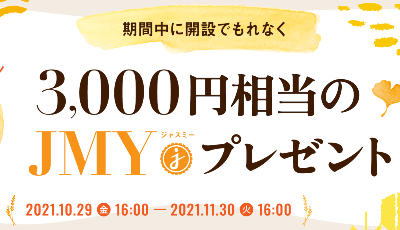
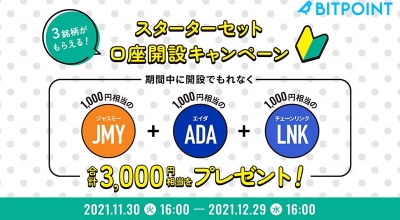
fix bitpoint campaign

diff --git a/src/component/bitpoint/index.tsx b/src/component/bitpoint/index.tsx
@@ -66,6 +66,7 @@ export default function BitPointComponent() {
                     <div className="content-main">
                         <p>{bitPoint}の特徴は、他の国内取引所では取り扱いの少ないアルトコインを上場している点にあります。</p>
                         <p>具体的には{trx}や{ada}、{jmy}などが挙げられます。</p>
+                        <p>2021年11月30日にLNK（チェーンリンク）が新たに上場され、取扱銘柄数は11種類となりました。</p>
                         <p>新規銘柄の上場の際に、対象銘柄が貰えるキャンペーンを開催することが多いので、口座開設をしておくだけで暗号資産がもらえるかもしれません。<br/><span style={{opacity: 0.6}}>※ キャンペーン内容は要確認</span></p>
                         <p>また、<span className="yellow-border">各種手数料が全て無料</span>な点と<span className="yellow-border">アルトコインの板取引</span>ができる点が挙げられます。</p>
                         <p>{bitPoint}は国内で取り扱いの少ない銘柄が上場されており、アルトコインの取引をしたい方におすすめの暗号資産取引所です。</p>
@@ -108,7 +109,7 @@ export default function BitPointComponent() {
                 <div className="content-main">
                     <p><strong>{subTitle5}</strong>として、Twitterのリツイートで暗号資産が貰えたり、購入額の10%相当が付与されるなどのキャンペーンをよく開催しています。</p>
                     <p>キャンペーン内容はその時によって内容が異なりますので、詳細は{campaign}を確認してみてください。</p>
-                    <p>2021年11月30日まで<span className="yellow-border">JMYが貰えるキャンペーン</span>が開催中です！</p>
+                    <p>2021年12月29日まで<span className="yellow-border">JMY・ADA・LNKの3通貨が貰えるキャンペーン</span>が開催中です！</p>
                     <div className="check-point">
                         <a href={AppConstant.bitPoint} target="_blank" rel="noopener noreferrer">
                             <div className="appeal-img">

diff --git a/src/component/exchange/index.tsx b/src/component/exchange/index.tsx
@@ -113,7 +113,7 @@ export default function ExchangeComponent() {
                                     <div><img src={bitPointLogo.src} alt="BITPoint logo"></img></div>BITPoint
                                 </a>
                             </td>
-                            <td>10種類</td>
+                            <td>11種類</td>
                             <td>○</td>
                             <td>○</td>
                         </tr>
@@ -259,7 +259,7 @@ export default function ExchangeComponent() {
                     <p>2016年に創業の株式会社ビットポイントジャパンが運営する暗号資産取引所。</p>
                     <p>ADAコイン({cardano})やジャスミー({jasmy})など他の国内取引所では扱っていない銘柄を立て続けに上場しています。<br/>今後も国内で取り扱いの少ない銘柄が上場される可能性がありますので、口座開設を済ませておく事をおすすめします。</p>
                     <p>また、こちらもブラウザUIやスマホアプリが扱いやすいので、初心者におすすめの取引所となります。</p>
-                    <p>2021/11/30まで、<span className="yellow-border">JMYが最大15,500円相当貰えるキャンペーンを実施中</span>ですので、口座開設するなら今がお得です。</p>
+                    <p>2021/12/29まで、<span className="yellow-border">JMY・ADA・LNKの3通貨が貰えるキャンペーンを実施中</span>ですので、口座開設するなら今がお得です。</p>
                 </div>
 
                 <div className="account-point">
